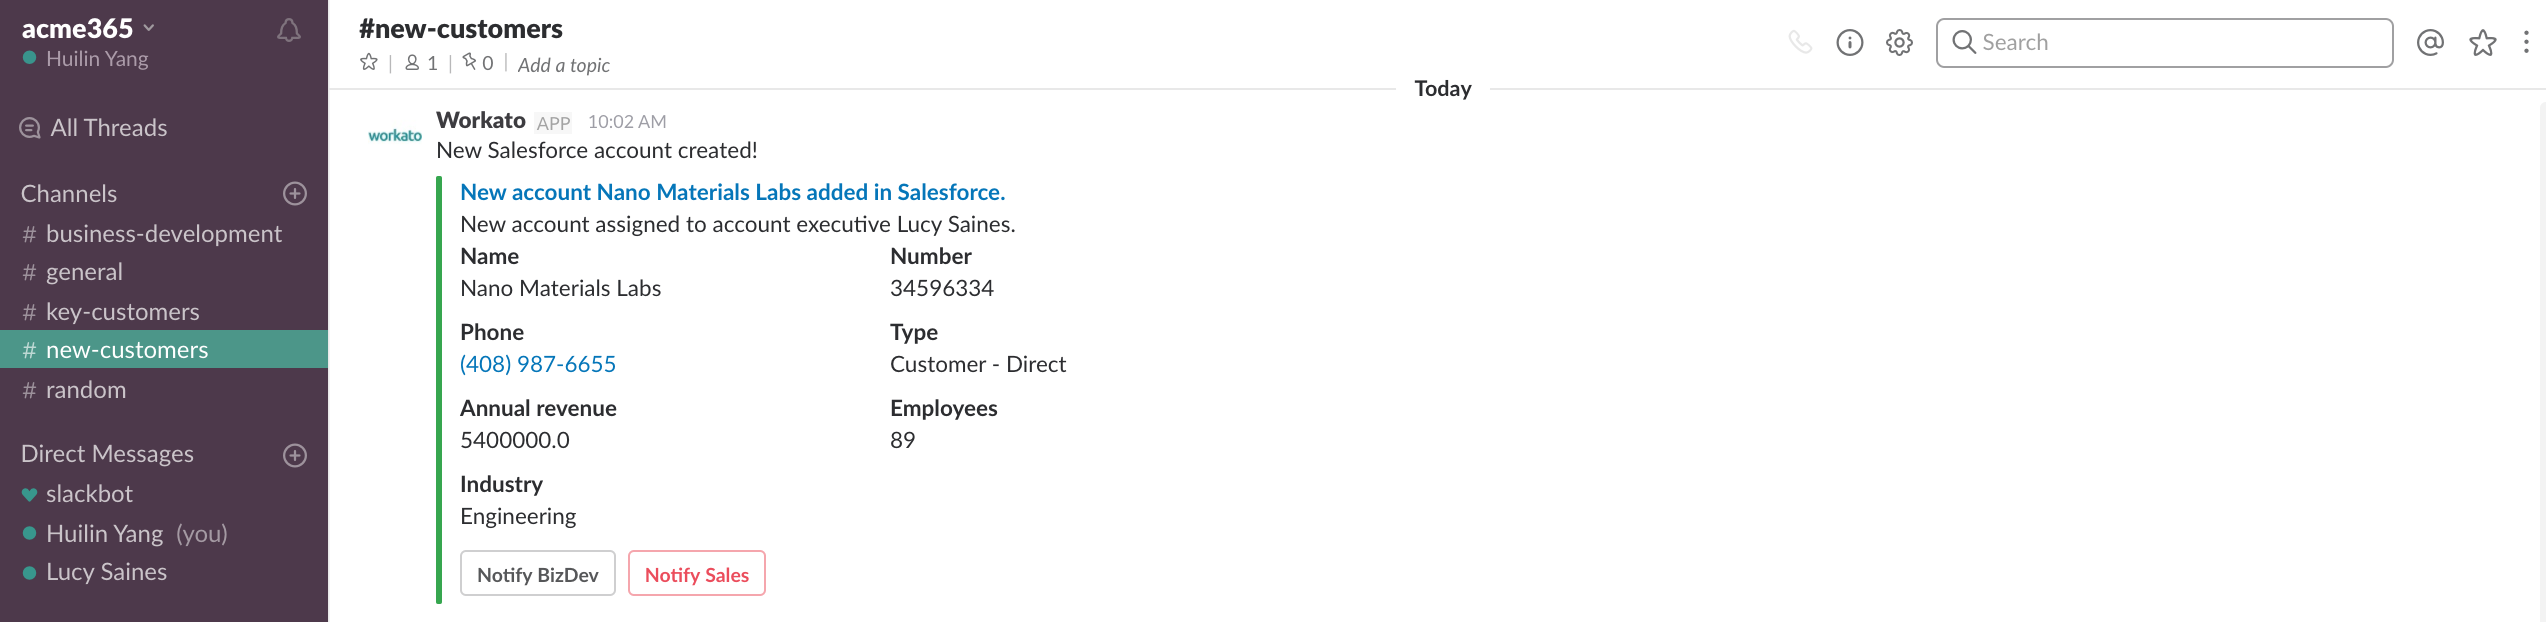
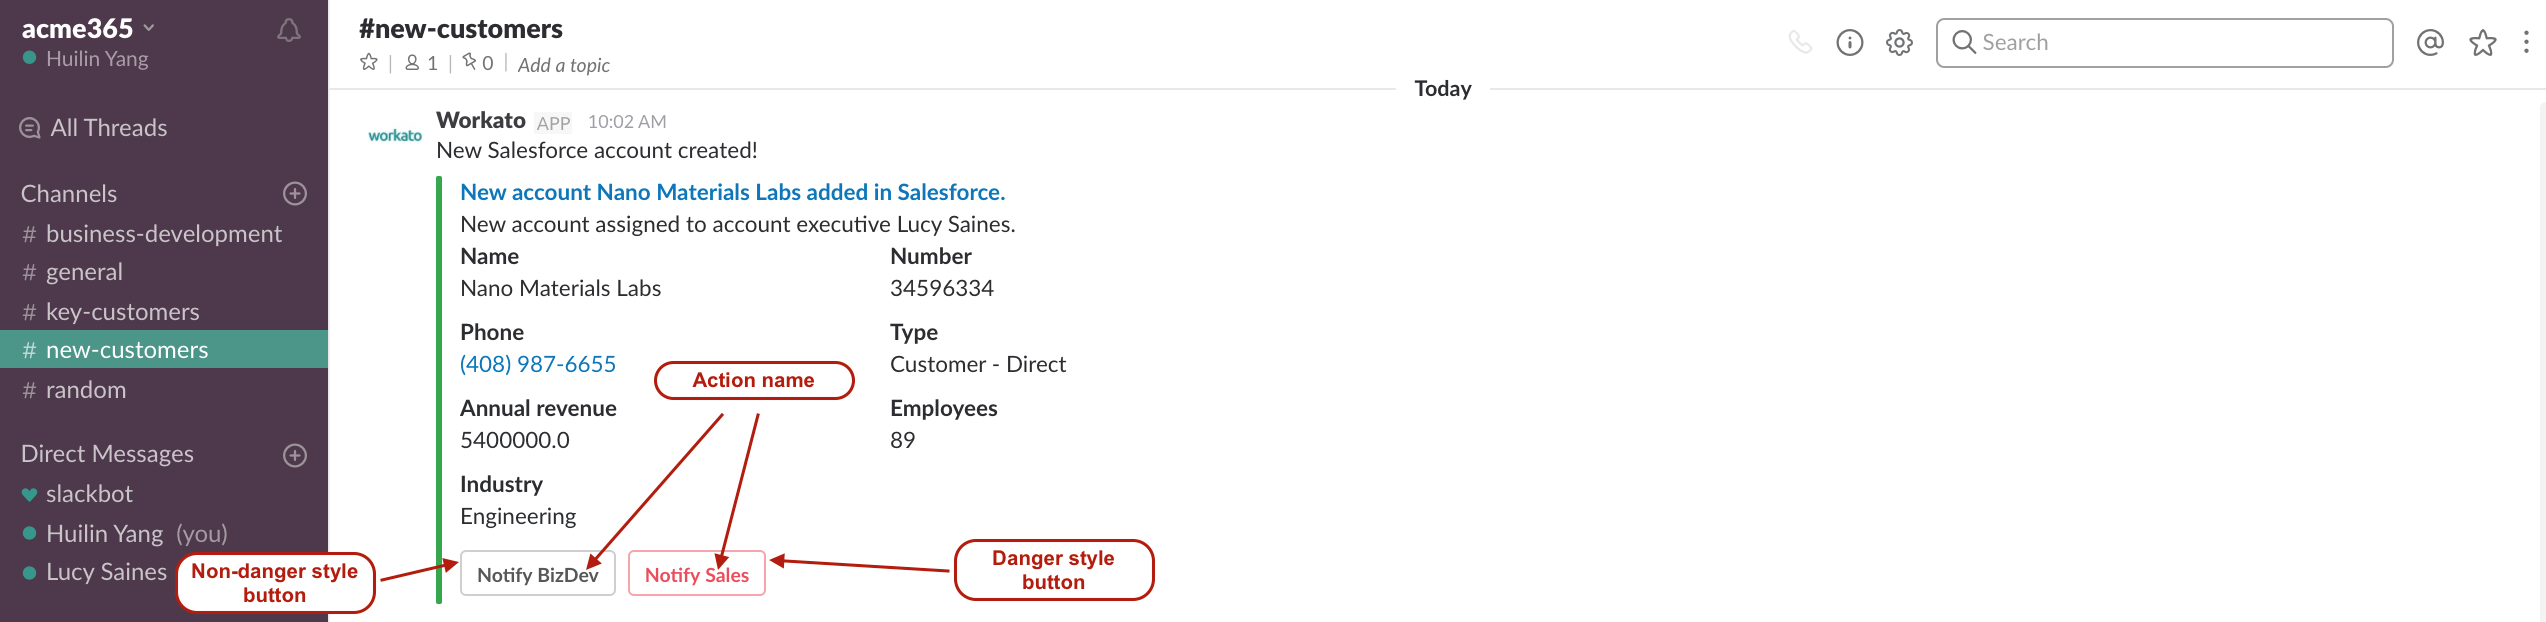
added labels for images

diff --git a/connectors/slack.md b/connectors/slack.md
@@ -75,10 +75,15 @@ There are two available styles for buttons - non-danger and danger style. The no
 ![Interacting with non-danger style button](/assets/images/connectors/slack/interacting-with-normal-button.gif)
 *Interacting with non-danger styled button*
 
-The danger styled buttons, when clicked, generates a popup prompt that asks the Slack user for confirmation of their click. The prompt that pops up can be completely configured in the recipe.
+The danger styled buttons, when clicked, generates a popup prompt that asks the Slack user for confirmation of their click.
 
 ![Interacting with danger style button](/assets/images/connectors/slack/interacting-with-danger-button.gif)
 *Interacting with danger styled button*
+
+The prompt that pops up can be completely configured in the button configuration in the Slack action **Post message**.
+
+![Popup prompt example](/assets/images/connectors/slack/popup-prompt-example.png)
+*Popup prompt*
 
 The button configuration for both button styles is in the following screenshot. We're calling a recipe we have pre-built [**New Salesforce account button response recipe - Notify BizDev & Notify Sales**](https://www.workato.com/recipes/602058). All recipes with the Slack trigger **New button action** should show up in this picklist - select the recipe you have built to respond to this particular set of buttons.
 
